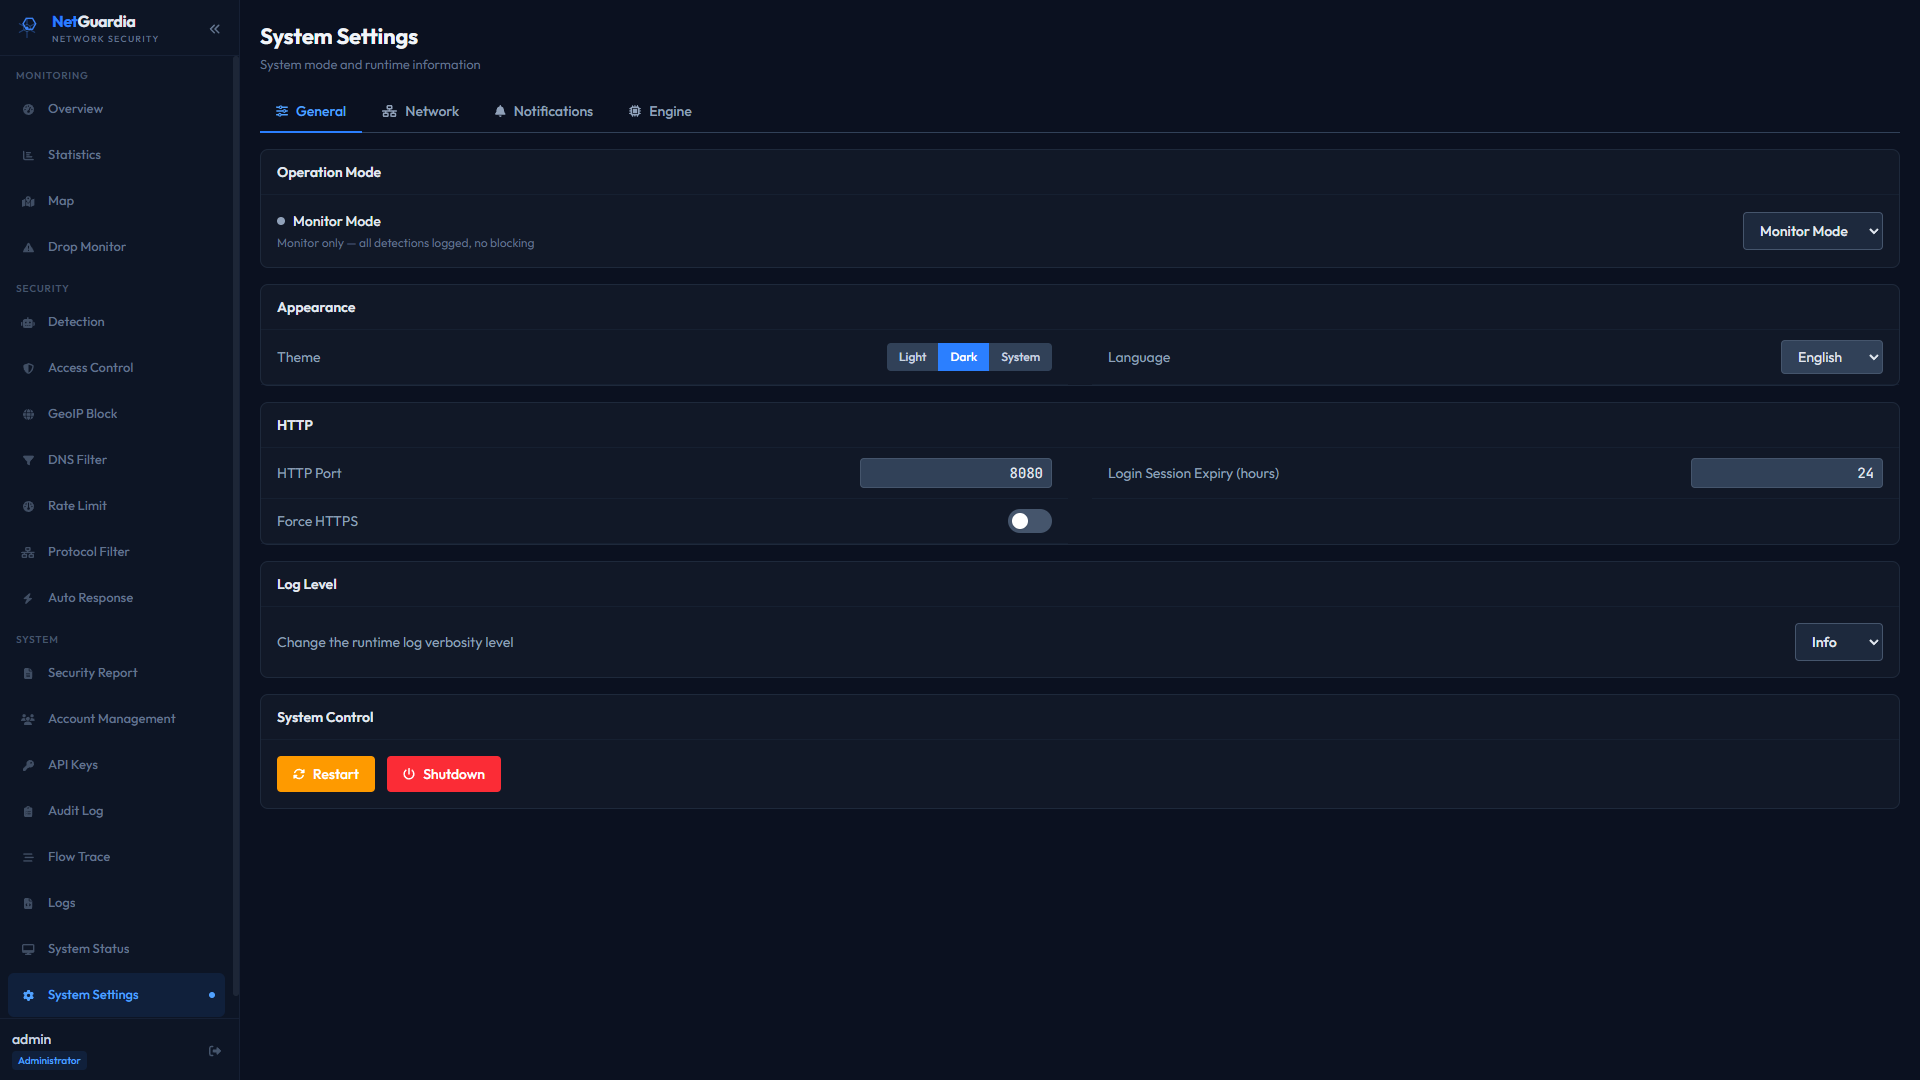
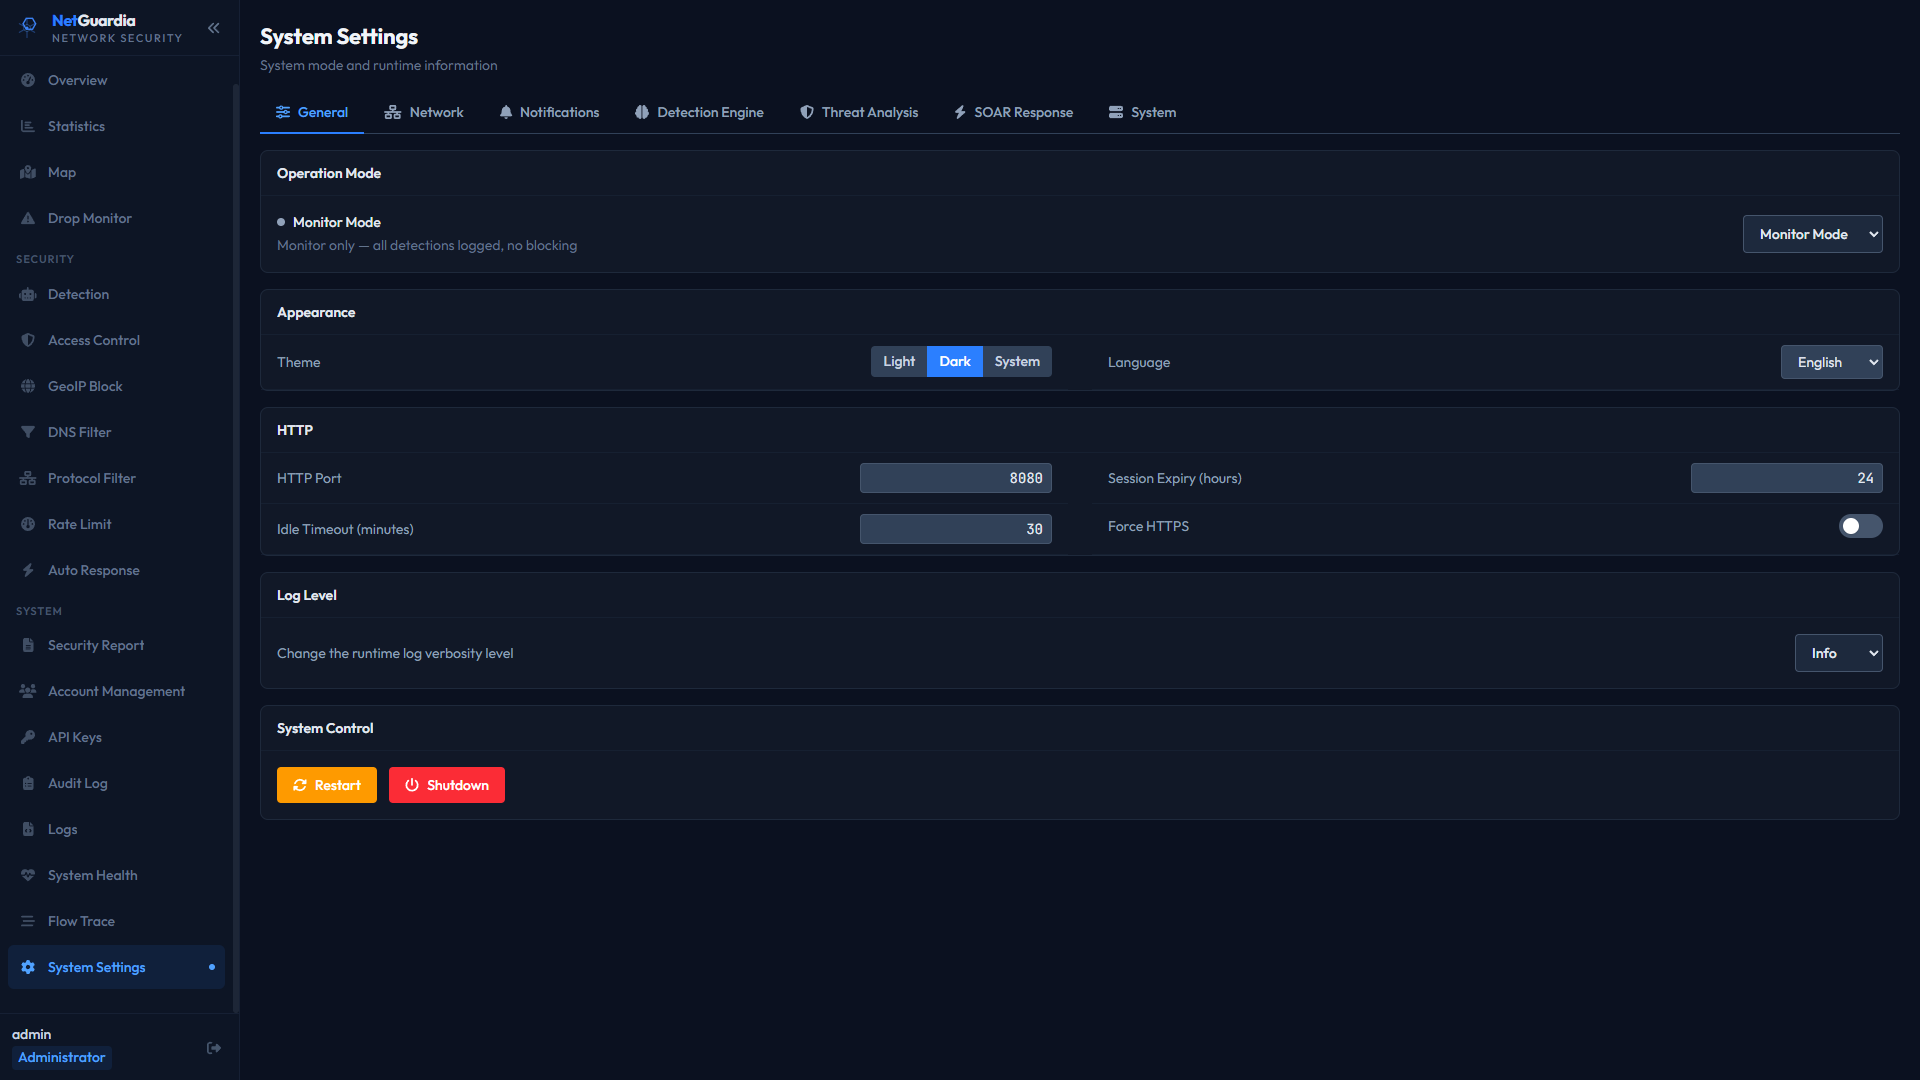
docs: update README screenshots (#22)

diff --git a/README.md b/README.md
@@ -10,16 +10,65 @@ Inline network security platform built on eBPF/XDP. Combines ONNX-based ML, temp
 - **Frontend** — Vue 3 + Pinia + Vue-i18n (en / zh-TW / zh-CN / ja)
 - **Architecture** — hexagonal-ish Rust workspace: `domain/` · `interface/` · `core/` · `adapter/` · `infrastructure/`
 
+## Capabilities
+
+NetGuardia sits inline between network segments, observes traffic, detects threats, and applies policy or automated response from one control plane.
+
+### Traffic Visibility
+
+- Live security overview with threat counts, traffic rate, system health, recent alerts, and SOAR activity.
+- Per-IP traffic statistics for bytes, packets, last-seen time, direction, address family, and source/destination views.
+- Network and attack maps for geographic flow visualization and attack-source distribution.
+- Flow trace recording for offline training, incident review, and audit workflows.
+
+### Threat Detection
+
+- ML-assisted traffic detection using ONNX runtime models and a pipeline adapter.
+- Multi-source fusion across ML signals, temporal beaconing, correlation heuristics, and Suricata `eve.json` alerts.
+- Alert details with confidence, anomaly score, classifier score, connection metadata, protocol, source, and destination.
+- Drift detection and audit events for model behavior changes.
+- BYO model upload, validation, promotion, and offline mode for custom pipeline bundles.
+
+### Inline Enforcement
+
+- IPv4 and IPv6 access-control lists with blacklist and whitelist support.
+- GeoIP country blocking for region-based policy.
+- DNS blacklist filtering for suspicious domains.
+- HTTP and SSH protocol/service access rules.
+- Packet, SYN, UDP, and DNS rate limits for DDoS-oriented controls.
+- Real-time drop monitor for intercepted packet events.
+
+### Automated Response
+
+- SOAR playbooks with triggers, conditions, cooldowns, and response actions.
+- Dry-run mode for testing playbook behavior before enabling automation.
+- Execution history for automated actions such as IP blocks.
+- SOAR whitelist and active auto-block tracking.
+
+### Operations And Administration
+
+- WORM-style audit log with chain verification for administrative and detection events.
+- Live log stream with level filtering, search, follow/pause, and archived log download.
+- Security report with threat breakdown, SOAR summary, system health, PDF download, and email delivery.
+- User, group, RBAC permission, and API key management.
+- System health dashboard for CPU, memory, temperature, OS, NIC counters, engine mode, and boot time.
+- Runtime settings for general mode, network interfaces, notifications, detection, threat analysis, SOAR, and system integrations.
+
 ## Screens
 
 <table>
 <tr>
+<td><img src=".github/images/ui/overview.png" alt="Security overview"/><br><sub>Security overview with live posture, trends, threats, and SOAR activity</sub></td>
 <td><img src=".github/images/ui/statistics.png" alt="Traffic statistics"/><br><sub>Traffic statistics (per-IP bytes/packets)</sub></td>
-<td><img src=".github/images/ui/map.png" alt="Geo map"/><br><sub>Live geographic flow map</sub></td>
-<td><img src=".github/images/ui/drop-monitor.png" alt="Drop monitor"/><br><sub>Real-time drop monitor</sub></td>
+<td><img src=".github/images/ui/map.png" alt="Network traffic map"/><br><sub>Live geographic flow map</sub></td>
 </tr>
 <tr>
-<td><img src=".github/images/ui/detection.png" alt="Threat detection"/><br><sub>Fused threat detection + ML status</sub></td>
+<td><img src=".github/images/ui/global-attack-map.png" alt="Global attack map"/><br><sub>Global attack-source distribution</sub></td>
+<td><img src=".github/images/ui/drop-monitor.png" alt="Drop monitor"/><br><sub>Real-time drop monitor</sub></td>
+<td><img src=".github/images/ui/detection.png" alt="Threat detection"/><br><sub>Threat detection alert queue</sub></td>
+</tr>
+<tr>
+<td><img src=".github/images/ui/detection-details.png" alt="Alert details"/><br><sub>Alert details with model scores and connection metadata</sub></td>
 <td><img src=".github/images/ui/access-control.png" alt="Access control"/><br><sub>IPv4/IPv6 allow + block lists</sub></td>
 <td><img src=".github/images/ui/geoip-block.png" alt="GeoIP block"/><br><sub>GeoIP country block</sub></td>
 </tr>
@@ -29,48 +78,33 @@ Inline network security platform built on eBPF/XDP. Combines ONNX-based ML, temp
 <td><img src=".github/images/ui/protocol-filter.png" alt="Protocol filter"/><br><sub>HTTP / SSH service rules</sub></td>
 </tr>
 <tr>
-<td><img src=".github/images/ui/auto-response.png" alt="SOAR"/><br><sub>SOAR playbooks + dry-run</sub></td>
+<td><img src=".github/images/ui/auto-response.png" alt="SOAR playbooks"/><br><sub>SOAR playbook management and dry-run</sub></td>
+<td><img src=".github/images/ui/auto-response-history.png" alt="SOAR execution history"/><br><sub>SOAR execution history</sub></td>
+<td><img src=".github/images/ui/auto-response-block-rules.png" alt="SOAR block rules"/><br><sub>SOAR whitelist and active auto-blocks</sub></td>
+</tr>
+<tr>
 <td><img src=".github/images/ui/security-report.png" alt="Security report"/><br><sub>Security report (PDF / email)</sub></td>
-<td><img src=".github/images/ui/audit-log.png" alt="Audit log"/><br><sub>WORM-chained audit log</sub></td>
-</tr>
-<tr>
 <td><img src=".github/images/ui/account-management.png" alt="Accounts"/><br><sub>Users + groups + RBAC</sub></td>
-<td><img src=".github/images/ui/api-keys.png" alt="API keys"/><br><sub>API keys</sub></td>
-<td><img src=".github/images/ui/flow-trace.png" alt="Flow trace"/><br><sub>Rotated flow recording</sub></td>
+<td><img src=".github/images/ui/group-management.png" alt="Groups"/><br><sub>Built-in and custom permission groups</sub></td>
 </tr>
 <tr>
+<td><img src=".github/images/ui/api-keys.png" alt="API keys"/><br><sub>API keys</sub></td>
+<td><img src=".github/images/ui/audit-log.png" alt="Audit log"/><br><sub>WORM-chained audit log</sub></td>
 <td><img src=".github/images/ui/logs.png" alt="Logs"/><br><sub>Live + archived logs</sub></td>
+</tr>
+<tr>
 <td><img src=".github/images/ui/system-status.png" alt="System status"/><br><sub>CPU / memory / NIC counters</sub></td>
+<td><img src=".github/images/ui/flow-trace.png" alt="Flow trace"/><br><sub>Rotated flow recording</sub></td>
 <td><img src=".github/images/ui/system-settings.png" alt="System settings"/><br><sub>Mode / theme / HTTP / engine</sub></td>
 </tr>
+<tr>
+<td><img src=".github/images/ui/system-settings-network.png" alt="Network settings"/><br><sub>Network interfaces, XDP, and pipeline settings</sub></td>
+<td><img src=".github/images/ui/system-settings-notifications.png" alt="Notification settings"/><br><sub>SMTP and Telegram notification settings</sub></td>
+<td><img src=".github/images/ui/system-settings-detection.png" alt="Detection settings"/><br><sub>ML model status, inference, and BYO upload controls</sub></td>
+</tr>
+<tr>
+<td><img src=".github/images/ui/system-settings-threat-analysis.png" alt="Threat analysis settings"/><br><sub>Beaconing and correlation thresholds</sub></td>
+<td><img src=".github/images/ui/system-settings-soar.png" alt="SOAR settings"/><br><sub>SOAR limits, TTL, and DNS action settings</sub></td>
+<td><img src=".github/images/ui/system-settings-system.png" alt="System integration settings"/><br><sub>Suricata and GeoIP integration settings</sub></td>
+</tr>
 </table>
-
-## Architecture
-
-![NetGuardia architecture](.github/images/architecture.png)
-
-## Requirements
-
-Linux kernel with eBPF **and** a NIC driver that implements AF_XDP on that kernel. No single "minimum kernel" — it depends on the NIC.
-
-| Driver | NIC family | Min kernel for AF_XDP |
-|---|---|---|
-| `mlx5` | Mellanox ConnectX-4/5/6/7 | 5.x |
-| `ixgbe` | Intel 82599, X520, X540, X550 | 5.x |
-| `i40e` | Intel X710, XL710, XXV710 | 5.x |
-| `ice` | Intel E810 | 5.5+ |
-| `igb` | Intel i350 T2 (reference HW) | **6.17** |
-| `igc` | Intel I225/I226 | 6.x |
-| `virtio_net` | QEMU/KVM | varies |
-
-Check with `ethtool -i <iface>` before deploying. 8 GB RAM minimum, 16 GB+ for high-traffic.
-
-## Build
-
-```sh
-cargo build --release --package net-guardia
-sudo ./target/release/net-guardia
-# open http://<host>:8080 — setup wizard issues the admin password on first boot
-```
-
-Systemd unit: [`deploy/netguardia.service`](deploy/netguardia.service).
